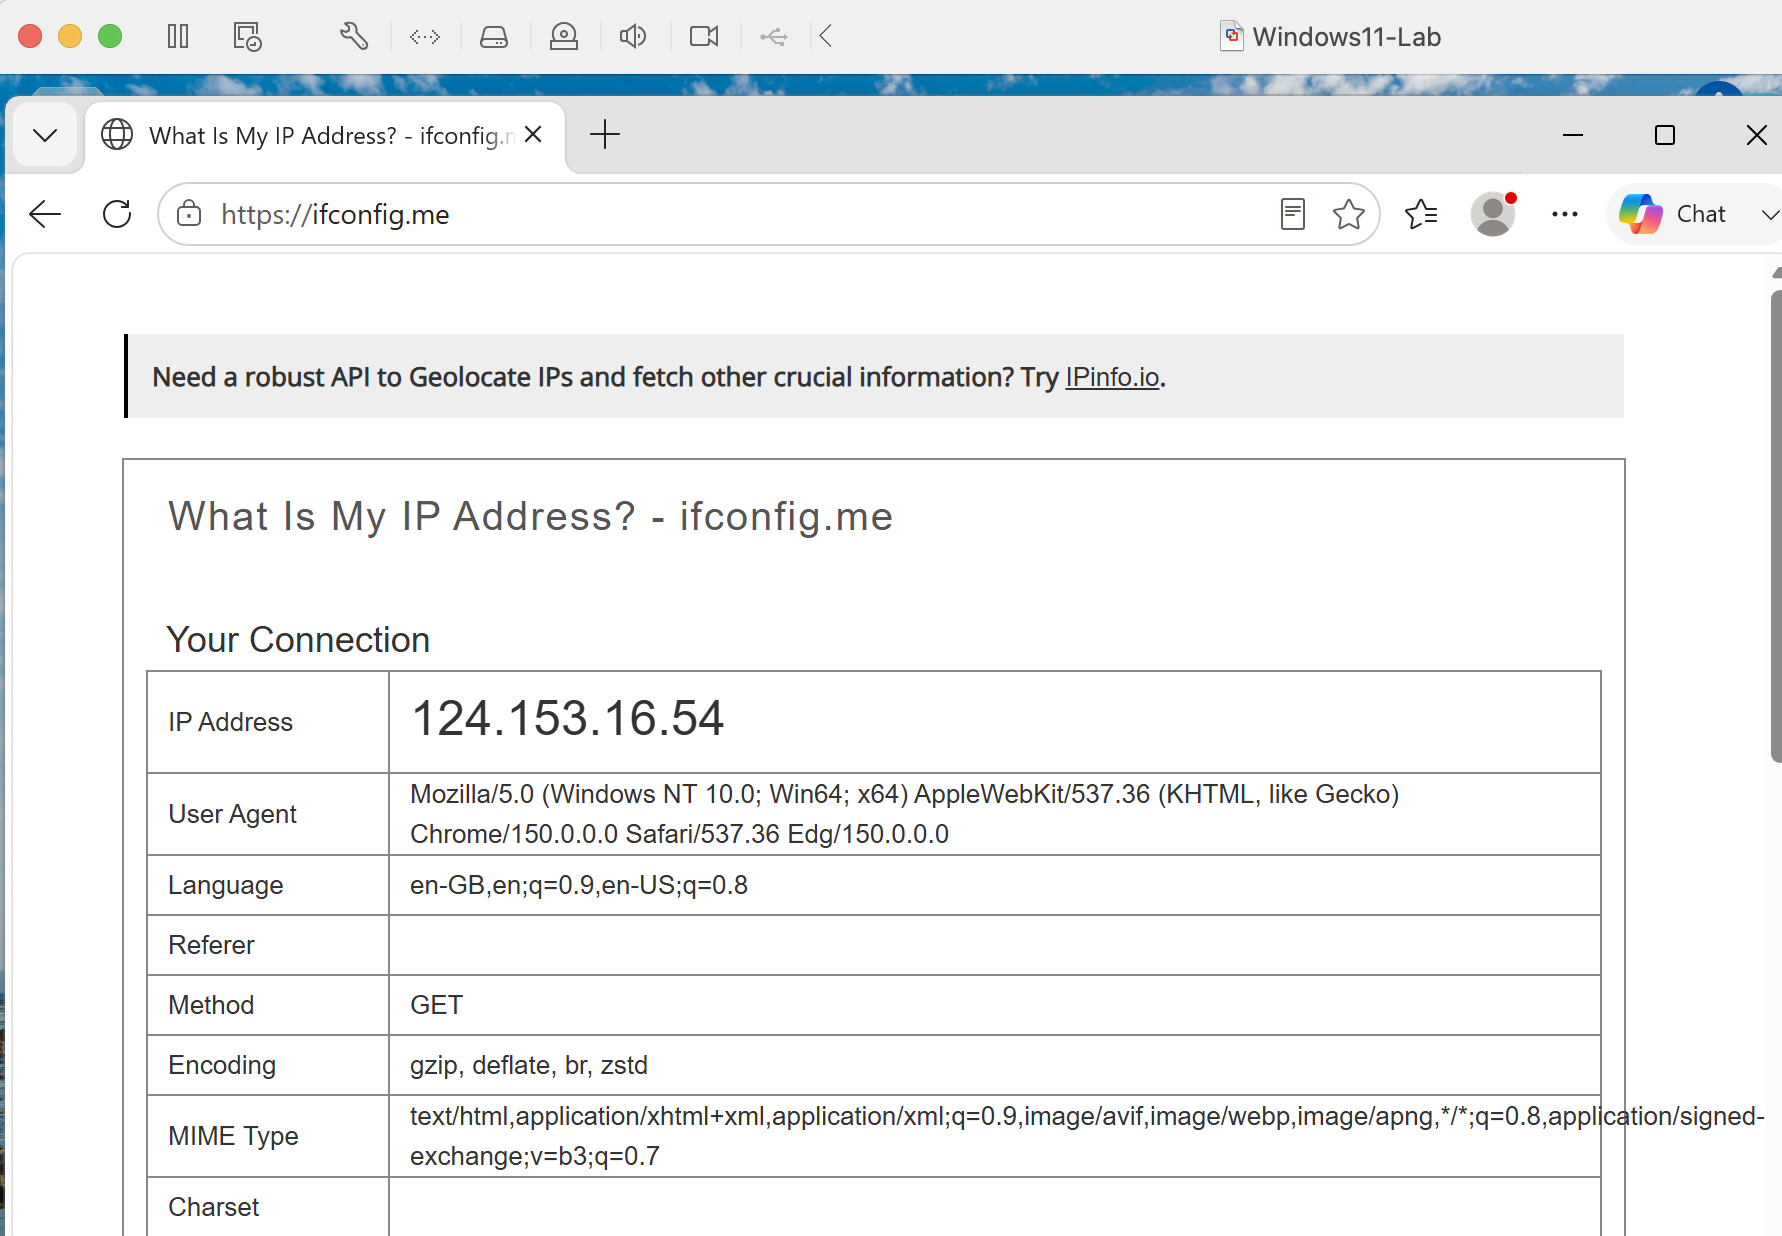
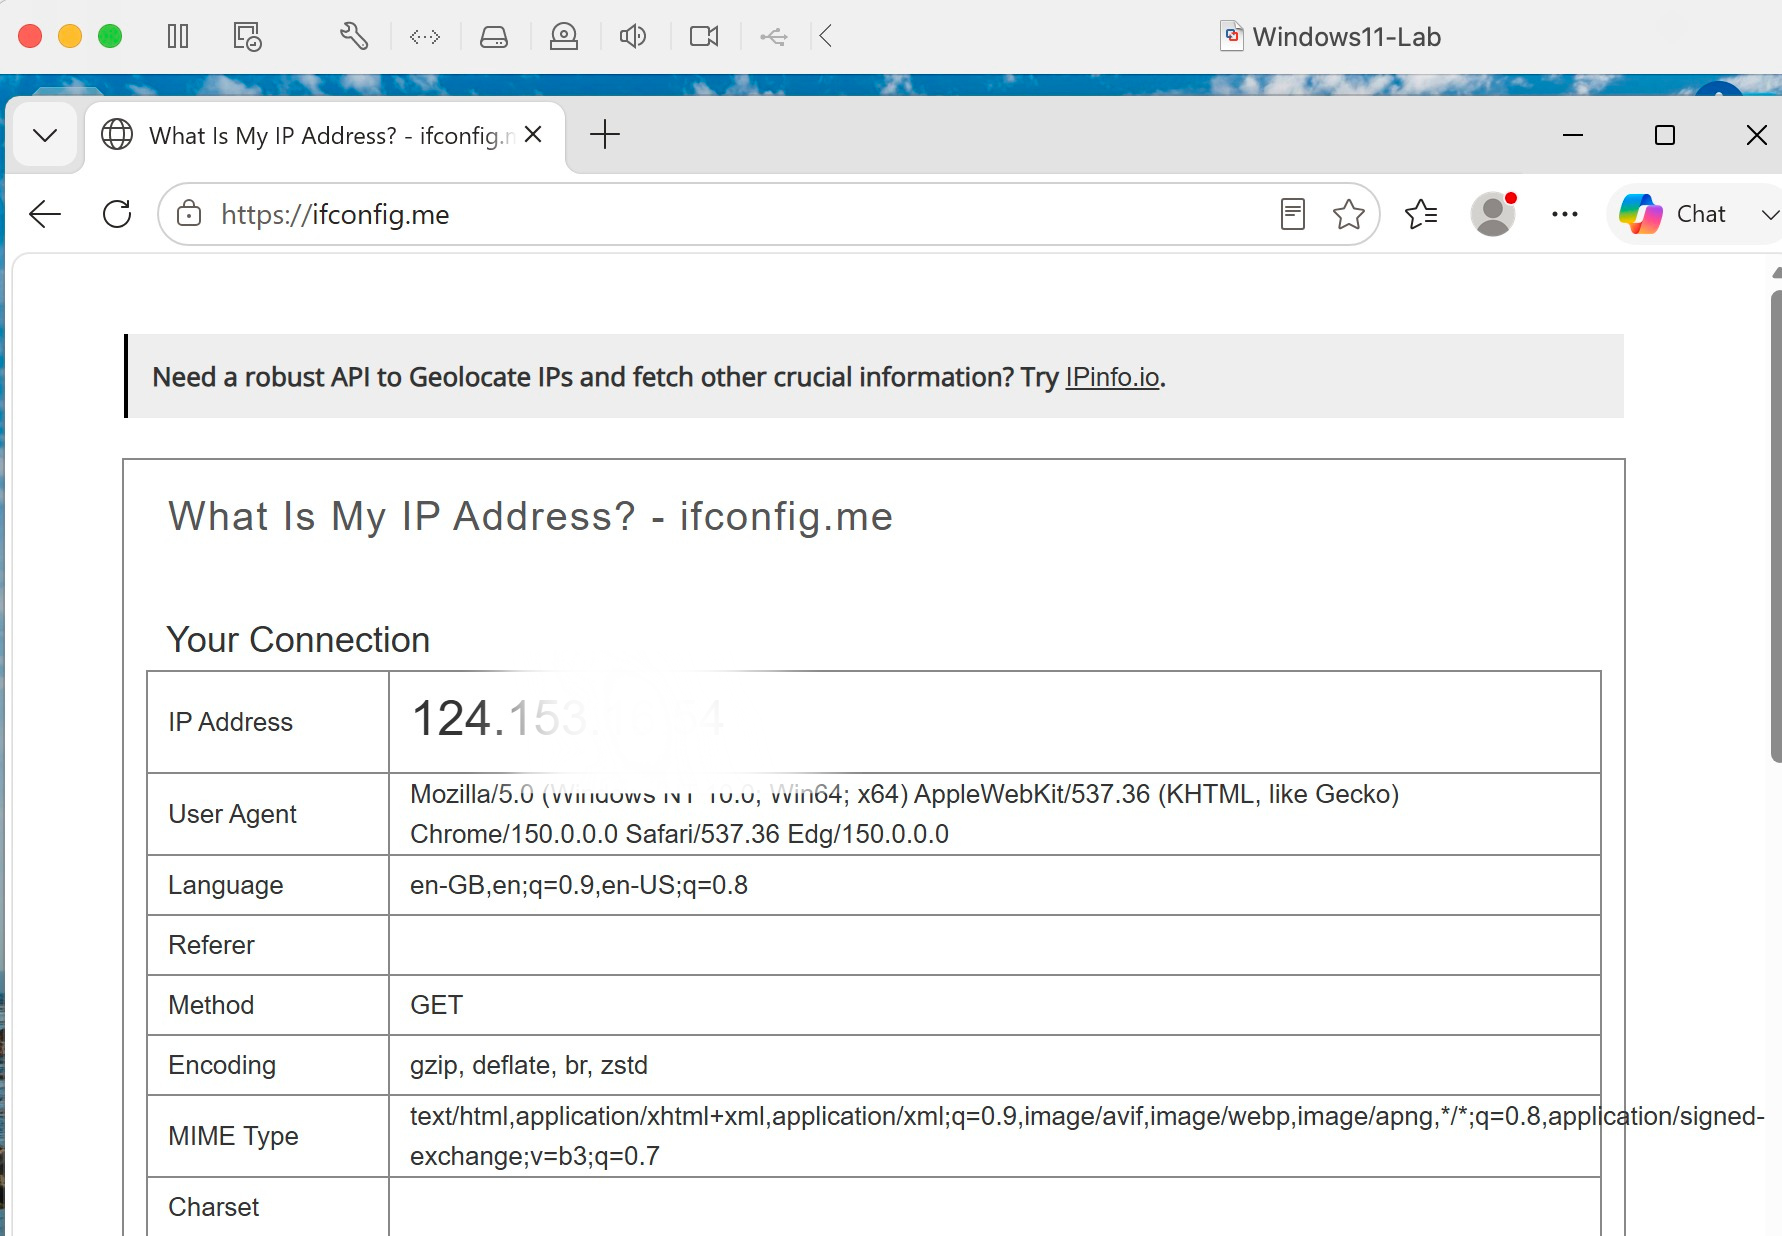
Learn OSI model

diff --git a/04-Networking Fundamentals/README.md b/04-Networking Fundamentals/README.md
@@ -49,3 +49,23 @@ Build a strong foundation in computer networking for IT Infrastructure and Blue 
 ### Result
 
 Learned the basic concepts of computer networking and how devices communicate through local networks and the Internet.
+
+## Lesson 2 - OSI Model
+
+### Topics
+
+- OSI 7 Layer Model
+- Layer Functions
+- Common Protocols
+- Real-world Networking
+
+### Hands-on
+
+- Checked IP configuration
+- DNS lookup
+- Ping test
+- Traceroute
+
+### Result
+
+Learned how the OSI model explains data communication and related networking tools to different layers.
